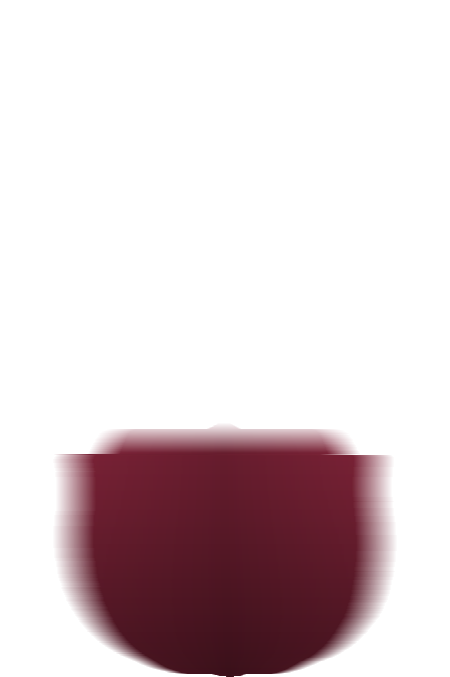
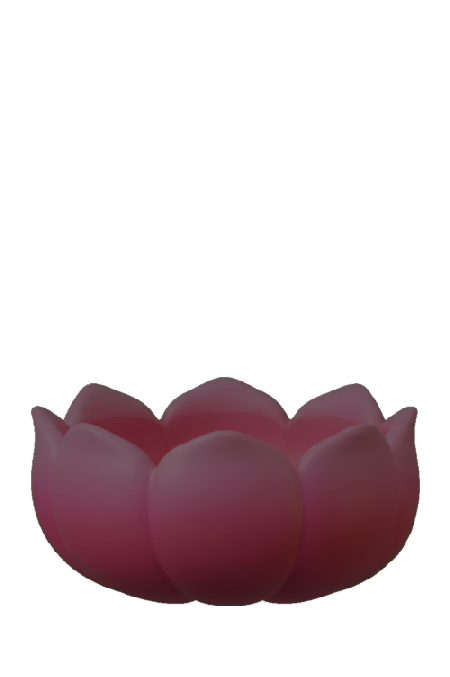
없는 뒷꽃잎은 못 만든다 — 새던 것만 막고 되돌린다
형: 「아니 시발 겹치잖아. 저럼 안 돼」 — 맞다. 포대승의 팔이 꽃잎 밖으로
삐져나와 있었다. 내가 넣은 윤곽본(mask)이 범인이다.

두 번 해 봤고 둘 다 안 됐다 —
 ① 몸을 그릇 윤곽으로 오리기: 그릇이 시작되는 줄에서 어깨가 뚝 끊기지
    않게 부드럽게 좁혔는데, 그 「부드러운」 구간이 곧 **그릇보다 넓은
    구간**이다. 거기서 팔이 샜다.
 ② 그릇을 줄여 위로 올리고 짙게 눌러 뒷꽃잎처럼 쓰기: 포대승은 몸이
    넓어 통째로 가려지고, 동자는 머리 옆에 검붉은 얼룩이 앉았다.

까닭은 하나다 — **이 그림에는 뒷꽃잎이 아예 없다.** 앞에서 본 한 장이라
뒤쪽 꽃잎은 애초에 안 그려져 있고, 없는 것을 늘리거나 눌러서는 못 만든다.

그릇이 몸을 완전히 덮는 줄에서 네모로 자르는 자리로 되돌린다.
자른 선은 늘 그릇 화소 뒤라 안 보이고, 밖으로 샐 길이 없다.
지저분한 것은 없앴다. 더 나아가려면 갈린 그림이 있어야 한다.

Changed region(s): [[0.0622, 0.5583, 0.9333, 1.0]]

diff --git a/src/app/hip.css b/src/app/hip.css
@@ -4125,38 +4125,49 @@ html[data-theme="light"] {
      아예 없다. 눌러 내려가면 몸이 그 줄에서 **먹히듯 사라지고**,
      그릇이 그 위를 제 모양대로 덮는다. 앞에서 본 그릇이라 속이 안
      보이니, 사라지는 것이 곧 「들어간다」로 읽힌다. */
-  /* ── 창을 **네모에서 윤곽으로** ─────────────────────────
-     처음엔 rim 줄에서 네모로 잘랐다. 삐져나오지는 않았지만, 자른 선이
-     늘 가로 한 줄이라 「그릇에 담겼다」가 아니라 「거기서 사라진다」로
-     읽혔다. 이제 **그릇 윤곽 그대로** 오린다(mask 그림).
-     그릇이 시작되기 전은 다 살고, 시작된 뒤로는 그릇 안에서만 산다. */
+  /* ── 창은 다시 **네모로** ───────────────────────────────
+     윤곽(mask)으로 오려 봤다. 그릇이 시작되는 줄에서 어깨가 뚝 끊기지
+     않게 부드럽게 좁혔는데, 그 「부드러운」 구간이 곧 **그릇보다 넓은
+     구간**이라 포대승의 팔이 꽃잎 밖으로 삐져나왔다
+     (형: 「아니 시발 겹치잖아, 저럼 안 돼」). 맞는 말이다.
+
+     한 장짜리 그릇으로 할 수 있는 것의 천장이 여기다 —
+     **그릇이 몸을 좌우로 완전히 덮는 줄**에서 네모로 자르는 것.
+     자른 선은 늘 그릇 화소 뒤라 안 보이고, 밖으로 샐 길이 없다.
+     더 나아가려면 앞꽃잎·뒷꽃잎이 갈린 그림이 있어야 한다. */
   .hip-keycap-well {
     position: absolute;
-    inset: 0;
+    left: 0;
+    right: 0;
+    top: 0;
+    height: calc(var(--keycap-rim, 66) * 1%);
+    overflow: hidden;
     z-index: 1;
-    -webkit-mask-image: var(--keycap-mask);
-    mask-image: var(--keycap-mask);
-    -webkit-mask-size: 100% 100%;
-    mask-size: 100% 100%;
-    -webkit-mask-repeat: no-repeat;
-    mask-repeat: no-repeat;
   }
   .hip-keycap-well .hip-keycap-buddha {
     position: absolute;
-    inset: 0;
+    left: 0;
+    top: 0;
     width: 100%;
-    height: 100%;
+    /* 창은 판의 rim% 만 하다. 그림은 판 높이 그대로 그려야 그릇과
+       화소가 맞으므로 창 기준으로 되돌려 잡는다(100/rim 배) */
+    height: calc(10000% / var(--keycap-rim, 66));
     object-fit: contain;
   }
-  /* 속 — 그릇 안쪽 그늘. 몸보다 뒤(z 0) */
-  .hip-keycap-back {
-    position: absolute;
-    inset: 0;
-    z-index: 0;
-    width: 100%;
-    height: 100%;
-    object-fit: contain;
-  }
+  /* ── 뒷꽃잎은 **만들어낼 수 없다** ──────────────────────
+     두 번 해 봤다.
+     ① 몸을 그릇 윤곽으로 오리기(mask) — 그릇이 시작되는 줄에서 어깨가
+        뚝 끊기지 않게 부드럽게 좁혔더니, 그 「부드러운」 구간이 곧
+        **그릇보다 넓은 구간**이라 팔이 꽃잎 밖으로 샜다.
+     ② 그릇 그림을 줄여 위로 올리고 짙게 눌러 뒷꽃잎처럼 쓰기 —
+        포대승은 몸이 넓어 통째로 가려져 안 보이고, 동자는 머리 옆에
+        검붉은 얼룩으로 앉았다.
+     까닭은 하나다: **이 그림에는 뒷꽃잎이 아예 없다.** 앞에서 본 한 장
+     이라 뒤쪽 꽃잎은 애초에 안 그려져 있고, 없는 것을 늘리거나 눌러서
+     만들 수는 없다. 앞꽃잎·뒷꽃잎이 갈린 그림이 와야 한다.
+     그때까지는 **그릇이 몸을 완전히 덮는 줄에서 네모로 자른다** —
+     자른 선은 늘 그릇 화소 뒤라 안 보이고, 밖으로 샐 길이 없다. */
+  .hip-keycap-back { display: none; }
   .hip-keycap-buddha {
     z-index: 1;
     transform-origin: 50% 100%;

diff --git a/src/app/moktak/HipMoktak.tsx b/src/app/moktak/HipMoktak.tsx
@@ -300,10 +300,7 @@ export default function HipMoktak({
                       그릇이 시작되기 전은 다 살고, 시작된 뒤로는 그릇
                       안에서만 산다. 그 사이는 어깨가 뚝 끊기지 않게
                       부드럽게 좁아든다(mask 그림에 그렇게 구워 두었다). */}
-                  <span
-                    className="hip-keycap-well"
-                    style={{ "--keycap-mask": `url(${keySrc.mask})` } as React.CSSProperties}
-                  >
+                  <span className="hip-keycap-well">
                     {/* eslint-disable-next-line @next/next/no-img-element */}
                     <img className="hip-keycap-buddha" src={keySrc.src} alt="" draggable={false} />
                   </span>
